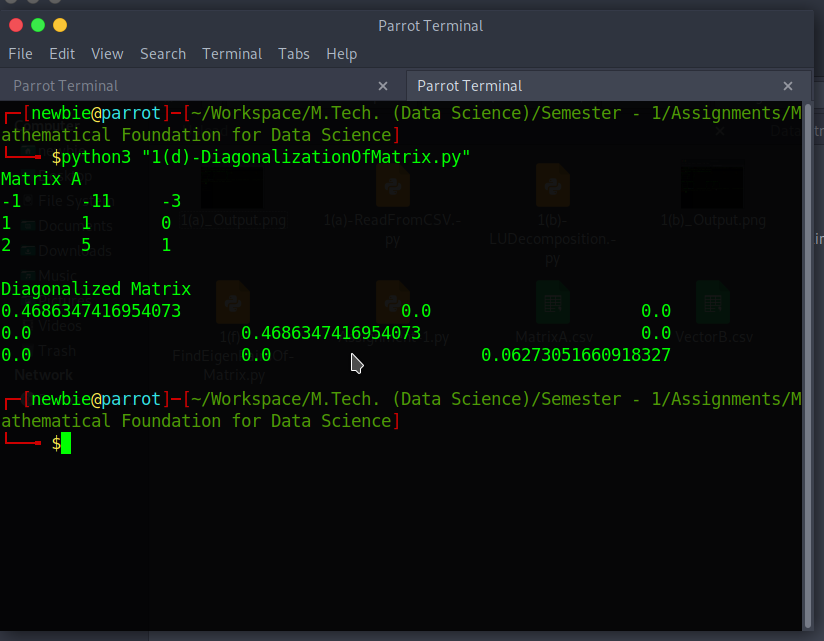
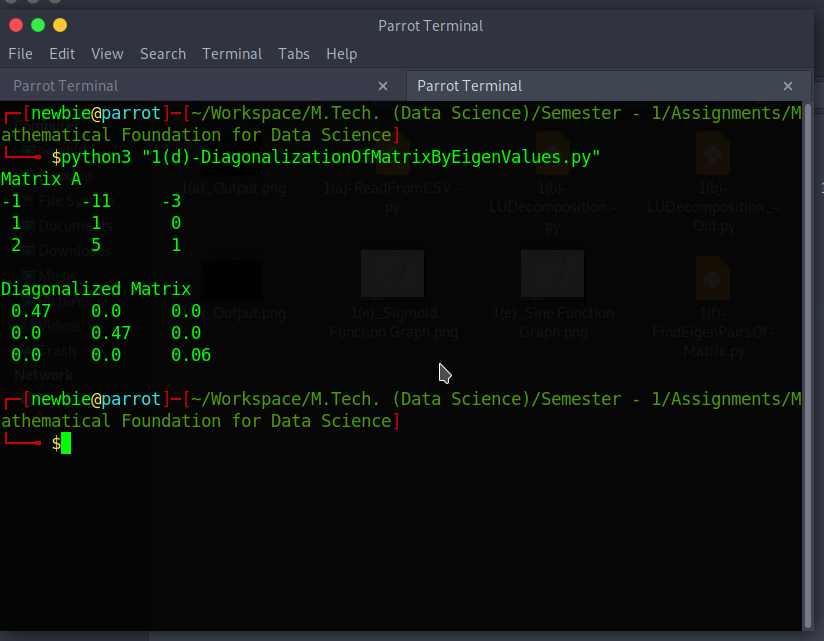
[Solved] Diagonalization problem in assignment-1 of Mathematical Foundation for Data Science subject is fixed by using eigen values.

diff --git a/Semester - 1/Assignments/Mathematical Foundation for Data Science/1(d)-DiagonalizationOfMatrixByEigenValues.py b/Semester - 1/Assignments/Mathematical Foundation for Data Science/1(d)-DiagonalizationOfMatrixByEigenValues.py
@@ -1,0 +1,28 @@
+import pandas as pandas
+import numpy as numpy
+from scipy.linalg import eig
+
+matrixA = numpy.array(pandas.read_csv("MatrixA.csv", sep =',', header = None, index_col = False))#.astype("float")
+numberOfRows_MatrixA, numberOfColumns_MatrixA = matrixA.shape
+print("Matrix A")
+for i in range(numberOfRows_MatrixA):
+    for j in range(numberOfColumns_MatrixA):
+        space = ' '
+        if(matrixA[i][j] < 0):
+            space = ''
+        print(space + format(numpy.round(matrixA[i][j], 2)), end = "\t")
+    print(" ")
+print(" ")
+eigenValuesOfMatrixA, eigenVectorsOfMatrixA = eig(matrixA)
+diagonalizedMatrix = numpy.zeros((numberOfRows_MatrixA, numberOfColumns_MatrixA))
+for i in range(numberOfRows_MatrixA):
+    diagonalizedMatrix[i][i] = eigenValuesOfMatrixA[i].real
+print("Diagonalized Matrix")
+for i in range(numberOfRows_MatrixA):
+    for j in range(numberOfColumns_MatrixA):
+        space = ' '
+        if(diagonalizedMatrix[i][j] < 0):
+            space = ''
+        print(space + format(numpy.round(diagonalizedMatrix[i][j], 2)), end = "\t")
+    print(" ")
+print(" ")
